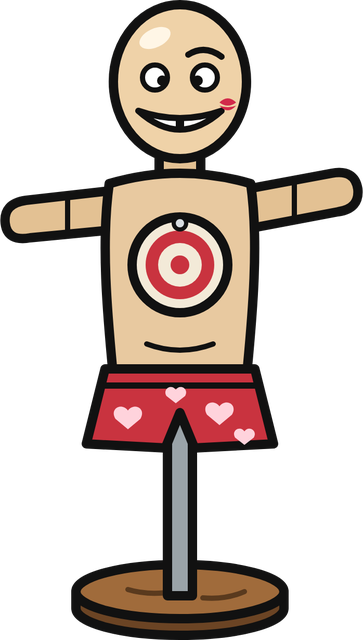
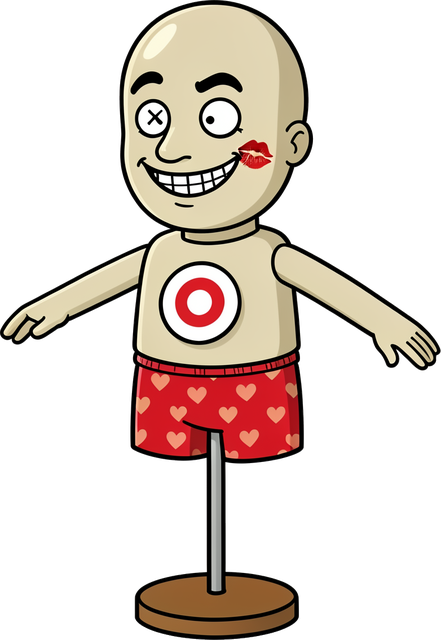
Warm-up dummies drawn on FLUX instead of the code placeholders
Vladislav picked them on the variants page after three rounds: Манекен is a
bald shop mannequin in heart boxers with a target on his chest, Боксёр a taped
dress form with a bucket for a head and a spring arm ending in a boxing
glove, Манекенша a legless plastic torso with a wig, heart sunglasses and a
boa. The boxer's glove is on his right, so his art faces right.

Claude-Session: https://claude.ai/code/session_01Vq52qqEg9fJroLRcQVHaoj

diff --git a/README.md b/README.md
@@ -53,7 +53,7 @@ npm run build    # сборка в dist/
 
 Первый раз «В путь» в кампании открывает разминку: отдельную комнату с тремя манекенами (`WARM` и `warmRoom` в `src/room.ts`), где Бастион один, сколько бы героев ни выбрали. Сверху его реплика с кнопками «Показывай» и «Сам разберусь»; второе сразу начинает забег. Разминку предлагают один раз на браузер. Реплики Бастиона висят светлым листком под верхней полосой, его лицо наклеено на угол, а куда смотреть, показывает мел: одна-три стрелки на руну, кнопку, очередь, здоровье, кристалл или манекена (с той стороны, где над полем есть место, и мимо надписей на кнопках) и стрелка «тяни» от фигурки с пунктиром к цели (`src/coach.ts`). Так же стрелками показывают и подсказки в забеге. Первый Манекен стоит от руны наискось, чтобы на телефоне фигурка героя не закрывала ни его, ни пунктир. Мел рисуется один раз и стоит на месте, без анимации. Шаги идут по порядку, каждый, пока к нему подходит игра (`Tutor.warmup` в `src/tutor.ts`): руна, «В бой!», первый бросок, попал или мимо, очередь манекенов, «Конец хода» и перебежка к диску, удар Боксёра по здоровью, кристалл (искры на разминке начинаются на одну меньше полных), умение и, если Манекенша прячется от героя за колонной, бросок от стены. Реплику-пояснение убирает тап, реплика «сделай это» висит, пока не сделано. На разминке нельзя пасть (удар оставляет одну каплю, и Бастион об этом говорит), враги не звереют, а в статистику и сохранение она не идёт. Победа выводит Бастиона с «В путь», и начинается забег выбранного отряда.
 
-Манекены (`dummy`, `dummy_lady`, `dummy_boxer` в `MOBS`, флаг `dummy`) живут только в разминке и в бестиарий не попадают. Манекен и Манекенша стоят и ничего не делают (намерение `idle`), Боксёр с места не сходит и бьёт пружиной на 2 того, кого видит. Картинки манекенов пока заглушки, нарисованные кодом; промты для FLUX в файлах проекта, `discodungeon/tutorial/prompts/`.
+Манекены (`dummy`, `dummy_lady`, `dummy_boxer` в `MOBS`, флаг `dummy`) живут только в разминке и в бестиарий не попадают. Манекен и Манекенша стоят и ничего не делают (намерение `idle`), Боксёр с места не сходит и бьёт пружиной на 2 того, кого видит. Манекены нарисованы на FLUX, как и остальные враги: промты в файлах проекта, `discodungeon/backlog-art/prompts/` (Манекен по `dummy.txt`, Боксёр по `dummy_boxer_v3b.txt`, Манекенша по `dummy_lady_v2.txt`). У Боксёра перчатка на пружине справа, поэтому он смотрит вправо (`facing` в манифесте).
 
 Подсказки по ходу игры: один раз на браузер, когда это случилось впервые, в любом забеге, и в сетевой игре тоже (каждый видит свои). Первое «ТОЧНО!», диск в яме, шипы под диском, первая руда, грибы, когда помяли, «Звон», ярость, отряд, павший товарищ, огонь, озноб, звон в ушах, примерзание, карта, элита, «Заточка», кузнец, костёр, событие, пещера, босс, трофеи, дым-машина и стробоскоп. Подсказка игру не держит: уходит по тапу, через 15 секунд или когда игрок ушёл на другой экран. Всё говорит Бастион, обращаясь к игроку на «ты». В «Настройках» одна галочка «Показывать подсказки»: снятая выключает их, а поставленная снова возвращает их все и снова предлагает разминку. Что уже сказано, хранится в `localStorage`, ключ `discodungeon.tips`.
 
